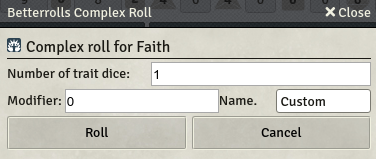
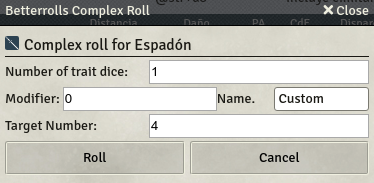
Release 1.1.1

diff --git a/CHANGELOG.md b/CHANGELOG.md
@@ -1,5 +1,14 @@
 # Changelog
 
+# 1.1.1 aka Catching on 0.12.1
+* Limit the maximun trait dice to 20
+* Started release automation
+* Refactoring to make it easier to contro complex rolls and rerolls
+* Display the related skill description of weapons and powers in the chat card
+* Allow custom Target Numbers on complex tolls
+* Some bugfixes
+* And finally support for skills and modifiers in the "Actions and Effects" tab. Still no support for actions.
+
 # 1.1.0 aka Complex rolls
 * The main feature is the complex roll window, it allows you to specify any amount of trait dice (up to 30) and add a modifier to the roll. This is also the reason for the big version bump.
 * Mark in red the rolls with a natural one on the dice even when their not critical failures
